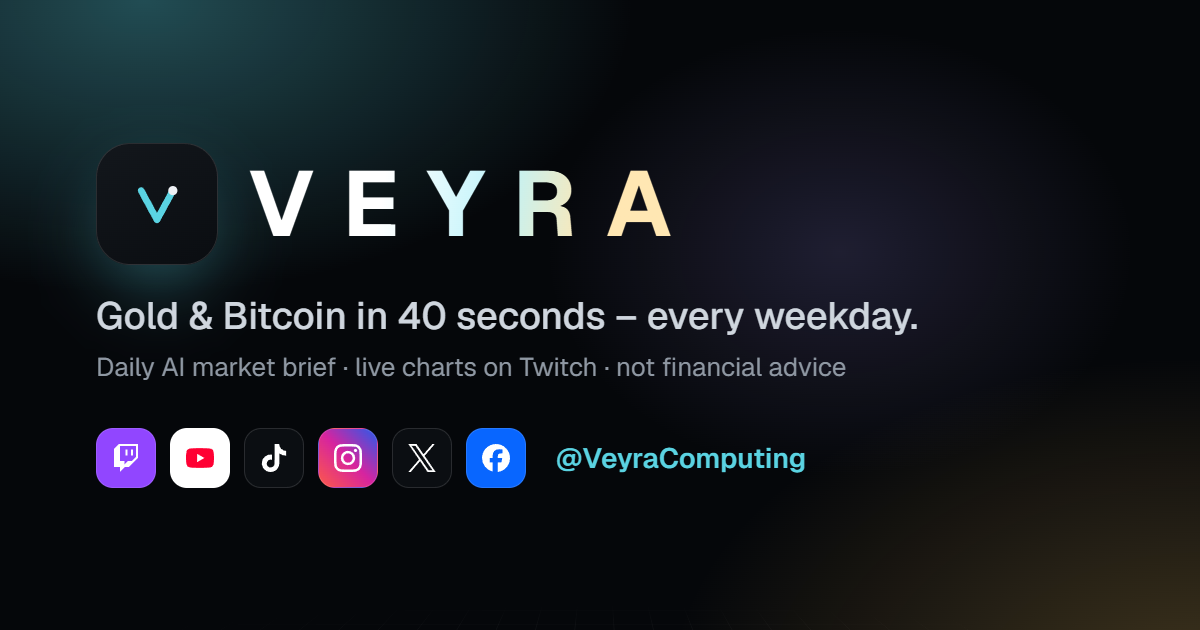
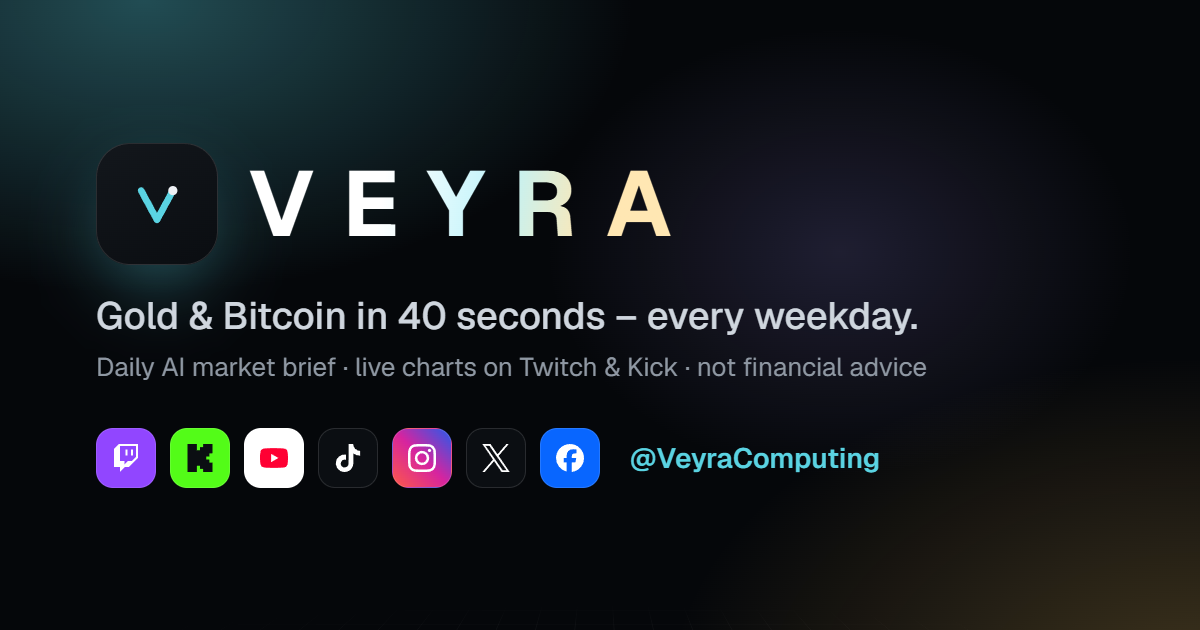
Seite aktualisiert

Changed region(s): [[0.1233, 0.6635, 0.74, 0.7841], [0.4933, 0.573, 0.7708, 0.6032]]

diff --git a/index.html b/index.html
@@ -41,9 +41,14 @@
     <p class="next"><span class="pulse"></span><span id="next">Weekdays · 7:30 AM New York</span></p>
   </header>
 
-  <a class="live" style="--i:0" href="https://www.twitch.tv/veyracomputing" rel="noopener me">
+  <a class="live twitch" style="--i:0" href="https://www.twitch.tv/veyracomputing" rel="noopener me">
     <span class="glyph"><svg viewBox="0 0 24 24" aria-hidden="true"><path d="M11.571 4.714h1.715v5.143H11.57zm4.715 0H18v5.143h-1.714zM6 0L1.714 4.286v15.428h5.143V24l4.286-4.286h3.428L22.286 12V0zm14.571 11.143l-3.428 3.428h-3.429l-3 3v-3H6.857V1.714h13.714Z"/></svg></span>
     <span class="text"><b>Watch live on Twitch</b><small>Live charts · U.S. data · countdowns</small></span>
+    <span class="go" aria-hidden="true"><svg viewBox="0 0 24 24"><path d="M5 12h14M13 6l6 6-6 6"/></svg></span>
+  </a>
+  <a class="live kick" style="--i:0.5" href="https://kick.com/veyracomputing" rel="noopener me">
+    <span class="glyph"><svg viewBox="0 0 24 24" aria-hidden="true"><path d="M1.333 0h8v5.333H12V2.667h2.667V0h8v8H20v2.667h-2.667v2.666H20V16h2.667v8h-8v-2.667H12v-2.666H9.333V24h-8Z"/></svg></span>
+    <span class="text"><b>Watch live on Kick</b><small>The same live stream, on Kick</small></span>
     <span class="go" aria-hidden="true"><svg viewBox="0 0 24 24"><path d="M5 12h14M13 6l6 6-6 6"/></svg></span>
   </a>
 

diff --git a/links.css b/links.css
@@ -512,12 +512,16 @@ a {
   background: #0866ff;
 }
 
-/* Twitch: hervorgehoben, mit wanderndem Rand */
+/* Livestreams (Twitch, Kick): hervorgehoben, mit wanderndem Rand in der Farbe der Plattform */
 .live {
   --c: #9146ff;
   margin-bottom: 12px;
-  border-color: rgb(145 70 255 / 40%);
-  background: linear-gradient(135deg, rgb(145 70 255 / 20%), rgb(90 211 226 / 7%) 60%, rgb(255 255 255 / 3%));
+  border-color: color-mix(in srgb, var(--c) 40%, transparent);
+  background: linear-gradient(135deg, color-mix(in srgb, var(--c) 20%, transparent), rgb(90 211 226 / 7%) 60%, rgb(255 255 255 / 3%));
+}
+
+.live.kick {
+  --c: #53fc18;
 }
 
 .live::after {
@@ -525,7 +529,7 @@ a {
   inset: -1px;
   padding: 1px;
   border-radius: inherit;
-  background: conic-gradient(from var(--spin), transparent 0 70%, #9146ff 82%, var(--cyan) 92%, transparent 100%);
+  background: conic-gradient(from var(--spin), transparent 0 70%, var(--c) 82%, var(--cyan) 92%, transparent 100%);
   content: "";
   mask: linear-gradient(#000 0 0) content-box exclude, linear-gradient(#000 0 0);
   pointer-events: none;
@@ -534,7 +538,11 @@ a {
 
 .live .glyph {
   border-color: transparent;
-  background: #9146ff;
+  background: var(--c);
+}
+
+.live.kick .glyph svg {
+  fill: #0b0e12;
 }
 
 .live .text b {
